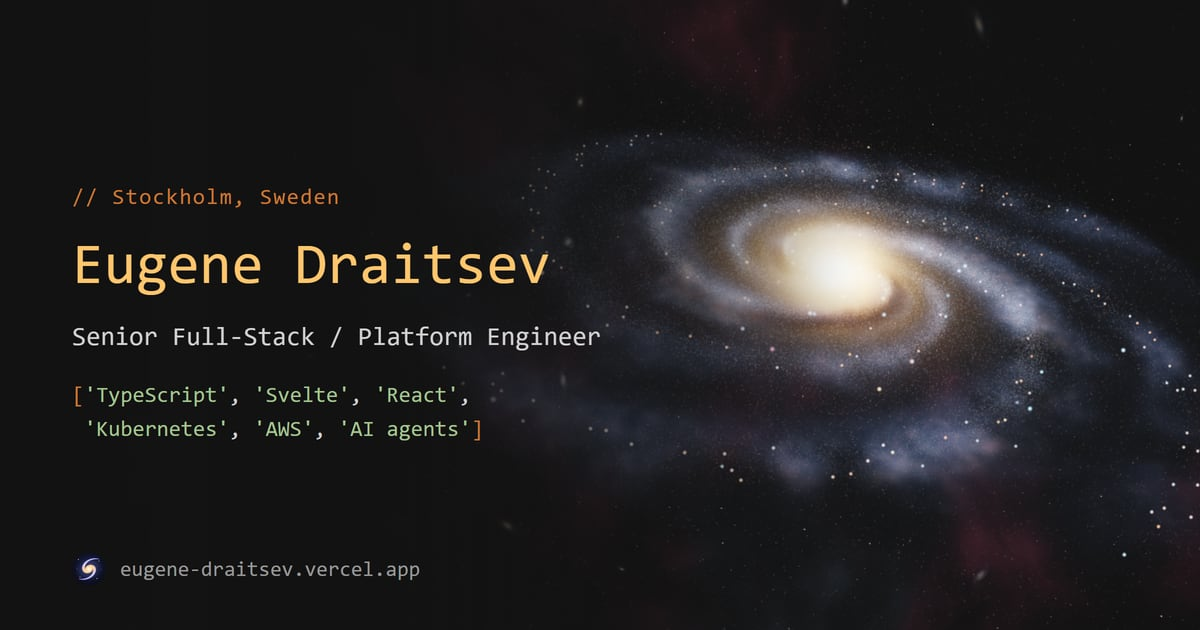
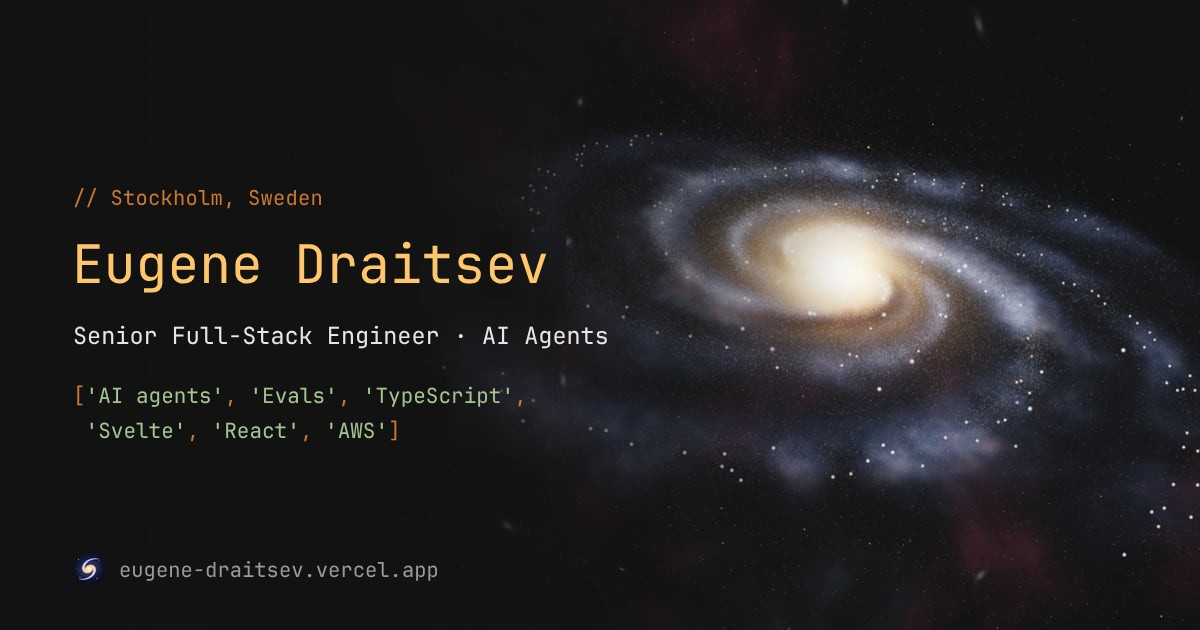
Lead the home page with agent and evaluation work
The position, bio, highlights, skills and delivery cards now put LLM
agents, evals and partner-facing work first; the home social card
carries the new position. Python and LLM evals join the skills, and
eBuilder mentions the ML tooling built there.

Claude-Session: https://claude.ai/code/session_01NzZXAvKMpKzEoqCdW5uxad

diff --git a/src/lib/constants.ts b/src/lib/constants.ts
@@ -1,26 +1,32 @@
 export const SITE_DATA = {
   siteTitle: 'Eugene Draitsev',
   siteDescription:
-    'Eugene Draitsev — Senior Full-Stack and Platform Engineer in Stockholm, building production web, cloud, security and AI systems.',
+    'Eugene Draitsev — Senior Full-Stack Engineer in Stockholm. Production web, cloud and security systems, LLM agents and the evaluations around them.',
   githubUsername: 'EugeneDraitsev',
   keyWords: [
     'Eugene Draitsev',
     'software-engineer',
     'fullstack-engineer',
+    'ai-agents',
+    'llm-evals',
+    'applied-ai',
     'security',
     'kubernetes',
-    'ai-agents',
-    'webgl',
+    'webgpu',
   ],
   authorDescription: `Hi, I'm Eugene, a full-stack engineer based in Stockholm. I've been building software
-  professionally since 2011 and got my systems engineering degree from BSUIR in 2013. I like math, algorithms,
-  good UX and other boring things. Most of my work has been full-stack: Node and Java on the backend, React and
-  Svelte on the frontend, running on Kubernetes and AWS/GCP. These days I spend a lot of time on security and
-  passkeys, AI agents and real-time graphics with WebGL/WebGPU. I enjoy taking a messy product or platform
-  problem, building the first version that works, and turning it into something a team can run and improve.`,
+  professionally since 2011 and got my systems engineering degree from BSUIR in 2013. Most of my work has been
+  end to end: Node and Java on the backend, React and Svelte on the frontend, Kubernetes and AWS/GCP underneath,
+  often with a partner team, a payment provider or a customer on the other side. At Yubico that means passkeys,
+  customer accounts and partner launches. Outside it, most of my curiosity goes into LLM systems: I run an agent
+  that lives in hundreds of group chats, and I care about when a model should answer, what it gets to see, and
+  how to turn a real failure into a test the next change has to pass. I still like math, algorithms, good UX and
+  real-time graphics, and I enjoy taking a messy problem, building the first version that works, and turning it
+  into something a team can run and improve.`,
   profileHighlights: [
     'End-to-end delivery: scoping, architecture, implementation, rollout and support after launch.',
-    'Currently into security and passkeys, Kubernetes, AI agents, observability and real-time graphics.',
+    'Currently into LLM agents and evals, security and passkeys, Kubernetes, observability and real-time graphics.',
+    'Used to working directly with the other side: partner engineers, payment providers and client teams.',
   ],
   deliveryHighlights: [
     {
@@ -33,18 +39,20 @@ export const SITE_DATA = {
       tags: ['Partner launch', 'Checkout', 'Auth handoff'],
     },
     {
+      title: 'LLM agent in production group chats',
+      text: 'Grew a long-running Telegram bot into an open-source agent system for hundreds of group chats, where the first question is whether the model should speak at all.',
+      result:
+        'Built reply gating, a tool loop with round and time budgets, model routing with fallbacks across OpenAI, Anthropic and Google, per-stage metrics, and a labelled live evaluation that started from a real abuse request.',
+      href: '/blog/agent-evals',
+      linkLabel: 'evaluation notes',
+      tags: ['AI agents', 'Evals', 'Tools'],
+    },
+    {
       title: 'Customer Accounts / FIDO2 authorization',
       text: 'I work directly with Yubico’s authentication and security teams on an organization-wide authorization flow for future products.',
       result:
         'Helped scope service details and integrate the flow across product surfaces, ecommerce, account systems and multiple internal teams.',
       tags: ['FIDO2', 'Security', 'Multi-team'],
-    },
-    {
-      title: 'LLM-powered agentic system',
-      text: 'Evolved a long-running Telegram bot from local chat utilities into a production-like LLM-powered agent system.',
-      result:
-        'Built async workers, reply gating, model routing and fallbacks, tool execution, memory, metrics and feedback loops around real group-chat behavior.',
-      tags: ['AI agents', 'Tools', 'Observability'],
     },
     {
       title: 'Commerce launches and operational readiness',
@@ -58,7 +66,7 @@ export const SITE_DATA = {
   details: {
     name: 'Eugene Draitsev',
     birthDate: '1990-10-02',
-    position: 'Senior Full-Stack / Platform Engineer',
+    position: 'Senior Full-Stack Engineer · AI Agents',
     location: 'Stockholm, Sweden',
   },
   skills: [
@@ -69,6 +77,7 @@ export const SITE_DATA = {
         { name: 'TypeScript', value: 5 },
         { name: 'HTML', value: 5 },
         { name: 'CSS', value: 5 },
+        { name: 'Python', value: 2.5 },
         { name: 'Rust', value: 3 },
         { name: 'Java', value: 3.5 },
         { name: 'Swift', value: 3 },
@@ -77,13 +86,14 @@ export const SITE_DATA = {
     {
       name: 'Tools & Technologies',
       data: [
+        { name: 'LLM Agents', value: 4 },
+        { name: 'LLM Evals', value: 3.5 },
         { name: 'React / Next', value: 5 },
         { name: 'Svelte / SvelteKit', value: 5 },
         { name: 'React Native', value: 4.5 },
         { name: 'AWS', value: 4 },
         { name: 'Kubernetes', value: 4 },
         { name: 'Node', value: 4.5 },
-        { name: 'AI Agents', value: 4 },
         { name: 'Three.js / WebGL', value: 4.5 },
         { name: 'Security/Auth', value: 4 },
         { name: 'Observability', value: 4 },
@@ -131,7 +141,8 @@ export const SITE_DATA = {
       location: 'Stockholm, Sweden / Minsk, Belarus',
       position: 'Senior Software Engineer',
       description: `Architected and delivered customer-facing web applications, a React Native app,
-      GraphQL services and AWS infrastructure with TypeScript, Node.js and React.`,
+      GraphQL services and AWS infrastructure with TypeScript, Node.js and React. Also built Falcon, an internal
+      tool the data science team used to compare ML models and training jobs.`,
     },
     {
       company: 'ISSoft Solutions',

diff --git a/tests/e2e/smoke.spec.ts b/tests/e2e/smoke.spec.ts
@@ -2,7 +2,7 @@ import { expect, test } from '@playwright/test';
 
 test('direct pages expose useful titles and landmarks', async ({ page }) => {
   await page.goto('/');
-  await expect(page).toHaveTitle('Eugene Draitsev | Senior Full-Stack / Platform Engineer');
+  await expect(page).toHaveTitle('Eugene Draitsev | Senior Full-Stack Engineer · AI Agents');
   await expect(page.getByRole('heading', { level: 1 })).toHaveCount(1);
   await expect(page.getByRole('main')).toHaveAttribute('id', 'main-content');
   await expect(page.locator('link[rel="canonical"]')).toHaveAttribute(
@@ -24,7 +24,9 @@ test('search-engine discovery endpoints list the public routes', async ({ reques
 
   const sitemap = await request.get('/sitemap.xml');
   await expect(sitemap).toBeOK();
-  expect(await sitemap.text()).toContain('/blog/gamedevjs-2026');
+  const sitemapText = await sitemap.text();
+  expect(sitemapText).toContain('/blog/gamedevjs-2026');
+  expect(sitemapText).toContain('/blog/agent-evals');
 });
 
 test('the galaxy starts on its own after load, without blocking the page', async ({
@@ -51,7 +53,7 @@ test('client navigation restores route-specific titles', async ({ page }) => {
   await expect(page).toHaveTitle('Blog | Eugene Draitsev');
 
   await page.getByRole('link', { name: 'Home', exact: true }).click();
-  await expect(page).toHaveTitle('Eugene Draitsev | Senior Full-Stack / Platform Engineer');
+  await expect(page).toHaveTitle('Eugene Draitsev | Senior Full-Stack Engineer · AI Agents');
 
   await page.getByRole('link', { name: 'About', exact: true }).click();
   await expect(page).toHaveTitle('About this site | Eugene Draitsev');

diff --git a/src/lib/components/Experience.svelte b/src/lib/components/Experience.svelte
@@ -2,7 +2,7 @@
   import { SITE_DATA } from '$lib/constants';
 
   const { careers, educations } = SITE_DATA;
-  const deliveryLabels = ['partner launch', 'authorization', 'AI agents', 'commerce systems'];
+  const deliveryLabels = ['partner launch', 'AI agents', 'authorization', 'commerce systems'];
   const deliveryCards = SITE_DATA.deliveryHighlights.map((highlight, index) =>
     Object.assign({}, highlight, {
       label: deliveryLabels[index] ?? highlight.tags[0],
@@ -15,9 +15,9 @@
     <div class="mb-7">
       <h2 class="subtitle">Selected recent delivery</h2>
       <p class="max-w-3xl text-sm leading-6 text-identifier/75">
-        A few recent examples where the job went beyond writing a component: partner launches,
-        identity and security flows, commerce delivery and agent systems that need to behave well
-        outside a demo.
+        A few recent examples where the job went beyond writing a component: a partner launch with
+        OpenAI, an agent system that has to behave well outside a demo, identity and security flows,
+        and commerce delivery.
       </p>
     </div>
 
@@ -36,7 +36,7 @@
               <a
                 class="ml-1 cursor-pointer text-declaration underline"
                 href={highlight.href}
-                target="_blank"
+                target={highlight.href.startsWith('/') ? undefined : '_blank'}
                 rel="noreferrer"
               >
                 ({highlight.linkLabel})
